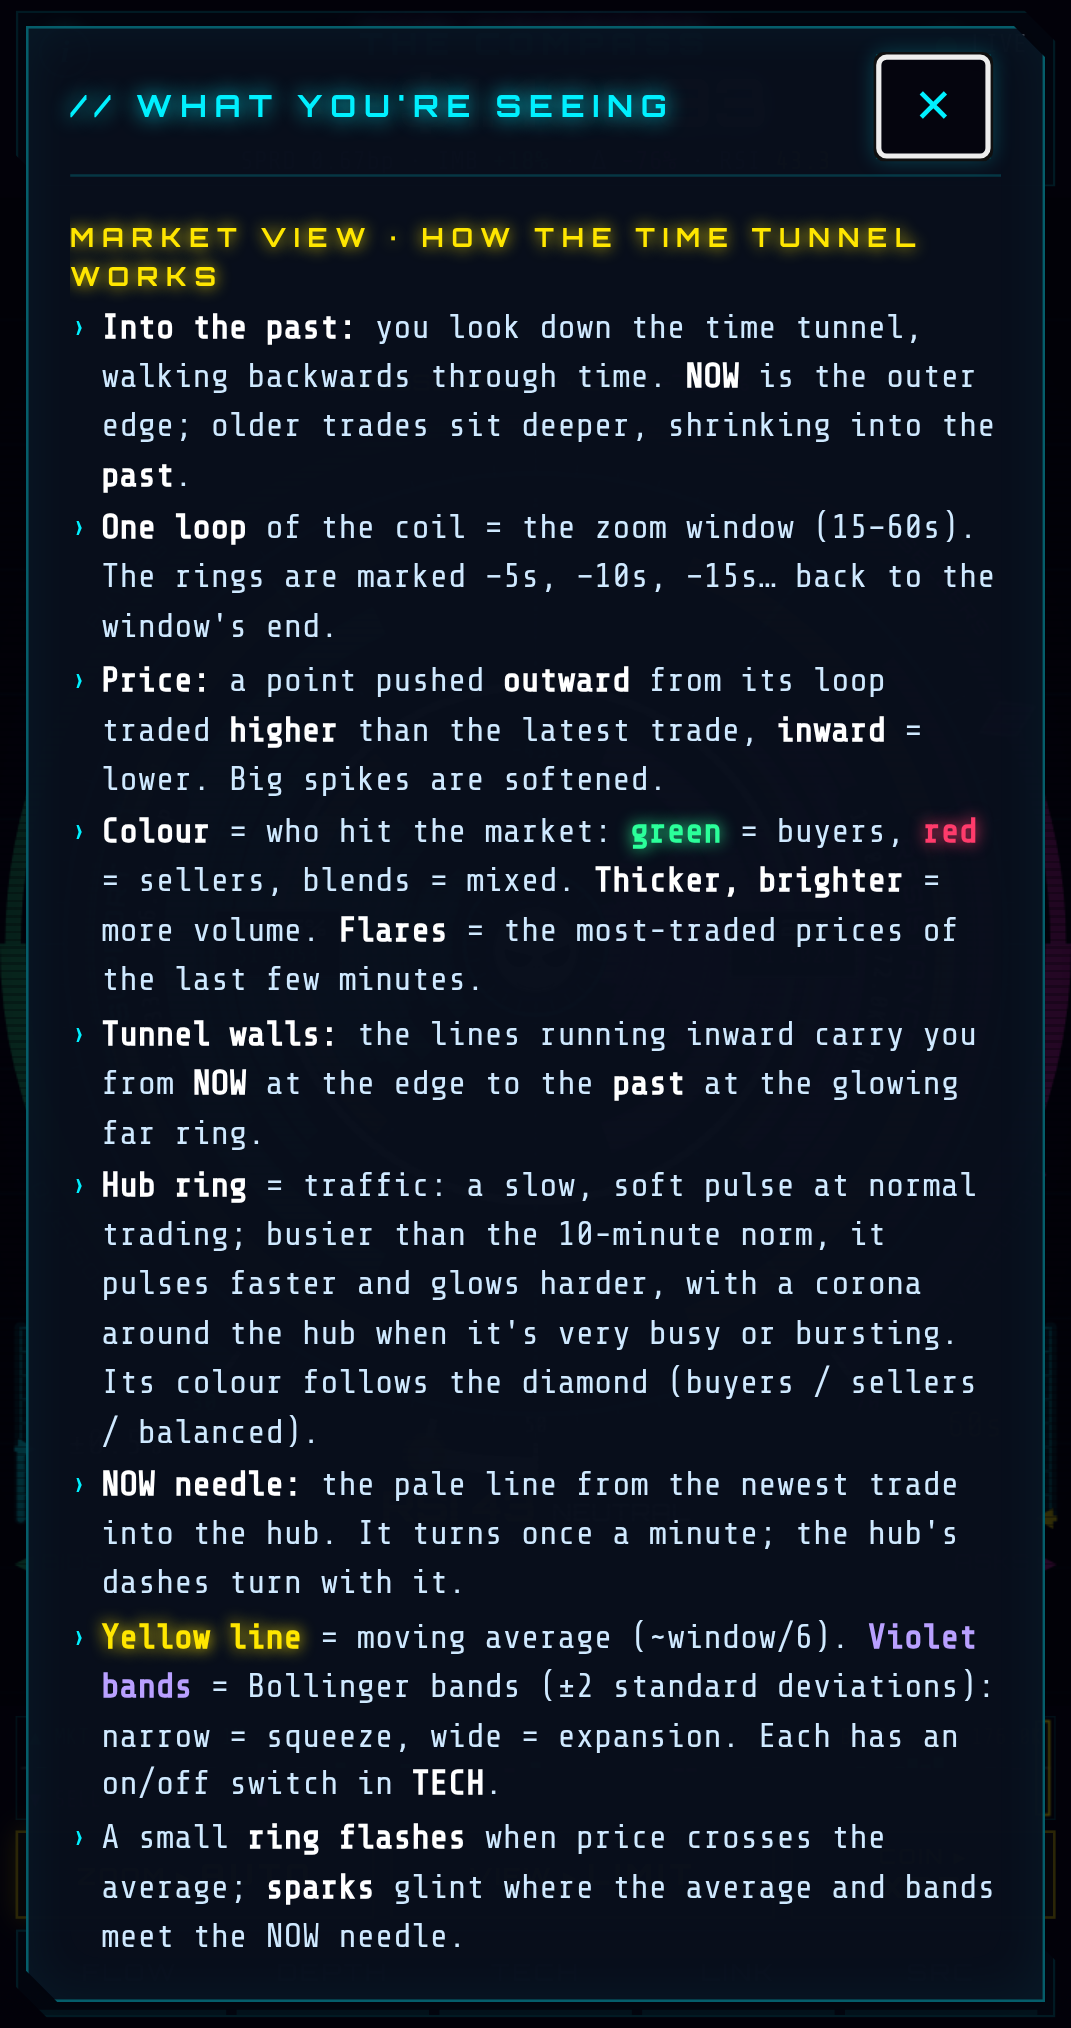
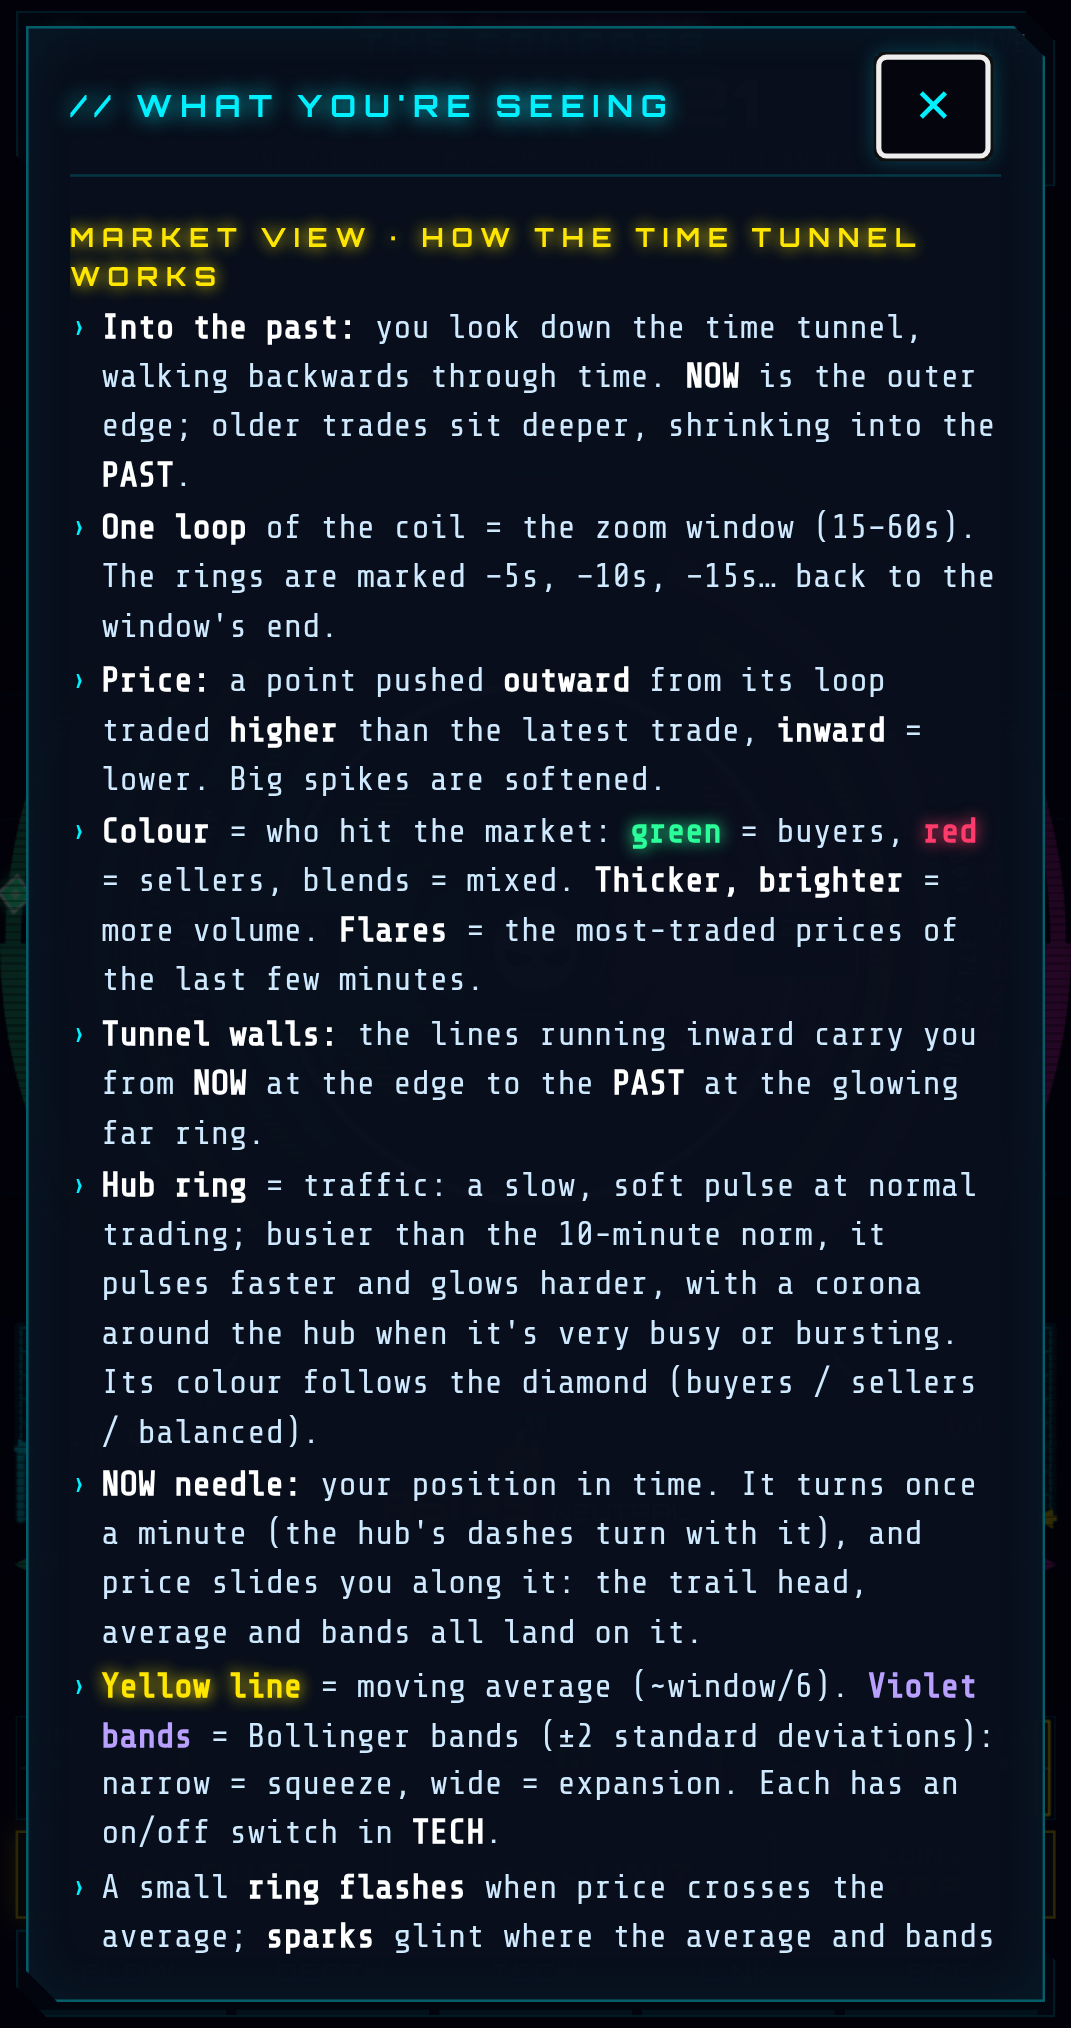
Build 20261004-0845: NOW needle info text, PAST caps

diff --git a/index.html b/index.html
@@ -3,7 +3,7 @@
 <head>
 <meta charset="utf-8">
 <meta http-equiv="Cache-Control" content="no-cache, no-store, must-revalidate"><meta http-equiv="Pragma" content="no-cache"><meta http-equiv="Expires" content="0">
-<script>window.OFC_BUILD='20261004-0820';try{localStorage.removeItem('ofc.trail')}catch(e){};(function(){try{if(!/^https?:/.test(location.protocol))return;fetch(location.pathname+'?_='+Date.now(),{cache:'no-store'}).then(r=>r.text()).then(t=>{const m=t.match(/OFC_BUILD='([^']+)'/);if(m&&m[1]!==window.OFC_BUILD&&sessionStorage.getItem('ofcB')!==m[1]){sessionStorage.setItem('ofcB',m[1]);location.replace(location.pathname+'?v='+m[1]+location.hash);}}).catch(()=>{});}catch(e){}})();</script>
+<script>window.OFC_BUILD='20261004-0845';try{localStorage.removeItem('ofc.trail')}catch(e){};(function(){try{if(!/^https?:/.test(location.protocol))return;fetch(location.pathname+'?_='+Date.now(),{cache:'no-store'}).then(r=>r.text()).then(t=>{const m=t.match(/OFC_BUILD='([^']+)'/);if(m&&m[1]!==window.OFC_BUILD&&sessionStorage.getItem('ofcB')!==m[1]){sessionStorage.setItem('ofcB',m[1]);location.replace(location.pathname+'?v='+m[1]+location.hash);}}).catch(()=>{});}catch(e){}})();</script>
 <script>/* viewport height guard: Android standalone PWAs can report a stale/too-tall 100dvh right after a reload (e.g. coin switch) -> size from the smallest sane measurement and keep re-checking */
 (function(){var R=document.documentElement;function m(){var v=window.visualViewport,c=[window.innerHeight,R.clientHeight];if(v&&v.height>0)c.push(v.height);c=c.filter(function(x){return x>100;});if(!c.length)return;
   var h=Math.round(Math.min.apply(null,c))+'px';if(R.style.getPropertyValue('--apph')!==h){R.style.setProperty('--apph',h);try{window.dispatchEvent(new Event('ofc-vh'));}catch(e){}}}
@@ -192,13 +192,13 @@ body.hublogo #top .logo{display:none}   /* mobile: logo lives in the compass hub
  <div id="infoHd"><h2 id="infoT">// WHAT YOU'RE SEEING</h2><button id="infoX" aria-label="close">✕</button></div>
  <div id="infoBody">
  <h3>MARKET VIEW · HOW THE TIME TUNNEL WORKS</h3>
- <ul><li><b>Into the past:</b> you look down the time tunnel, walking backwards through time. <b>NOW</b> is the outer edge; older trades sit deeper, shrinking into the <b>past</b>.</li>
+ <ul><li><b>Into the past:</b> you look down the time tunnel, walking backwards through time. <b>NOW</b> is the outer edge; older trades sit deeper, shrinking into the <b>PAST</b>.</li>
  <li><b>One loop</b> of the coil = the zoom window (15–60s). The rings are marked −5s, −10s, −15s… back to the window's end.</li>
  <li><b>Price:</b> a point pushed <b>outward</b> from its loop traded <b>higher</b> than the latest trade, <b>inward</b> = lower. Big spikes are softened.</li>
  <li><b>Colour</b> = who hit the market: <b class="gr">green</b> = buyers, <b class="rd">red</b> = sellers, blends = mixed. <b>Thicker, brighter</b> = more volume. <b>Flares</b> = the most-traded prices of the last few minutes.</li>
- <li><b>Tunnel walls:</b> the lines running inward carry you from <b>NOW</b> at the edge to the <b>past</b> at the glowing far ring.</li>
+ <li><b>Tunnel walls:</b> the lines running inward carry you from <b>NOW</b> at the edge to the <b>PAST</b> at the glowing far ring.</li>
  <li><b>Hub ring</b> = traffic: a slow, soft pulse at normal trading; busier than the 10-minute norm, it pulses faster and glows harder, with a corona around the hub when it's very busy or bursting. Its colour follows the diamond (buyers / sellers / balanced).</li>
- <li><b>NOW needle:</b> the pale line from the newest trade into the hub. It turns once a minute; the hub's dashes turn with it.</li>
+ <li><b>NOW needle:</b> your position in time. It turns once a minute (the hub's dashes turn with it), and price slides you along it: the trail head, average and bands all land on it.</li>
  <li><b class="yl">Yellow line</b> = moving average (~window/6). <b class="vi">Violet bands</b> = Bollinger bands (±2 standard deviations): narrow = squeeze, wide = expansion. Each has an on/off switch in <b>TECH</b>.</li>
  <li>A small <b>ring flashes</b> when price crosses the average; <b>sparks</b> glint where the average and bands meet the NOW needle.</li>
  <li><b>Diamond</b> on the outer coloured arc = last 30s of market buys vs sells: left/<b class="gr">green</b> = buyers in control, right/<b class="rd">red</b> = sellers, top/<b class="yl">yellow</b> = balanced.</li>
